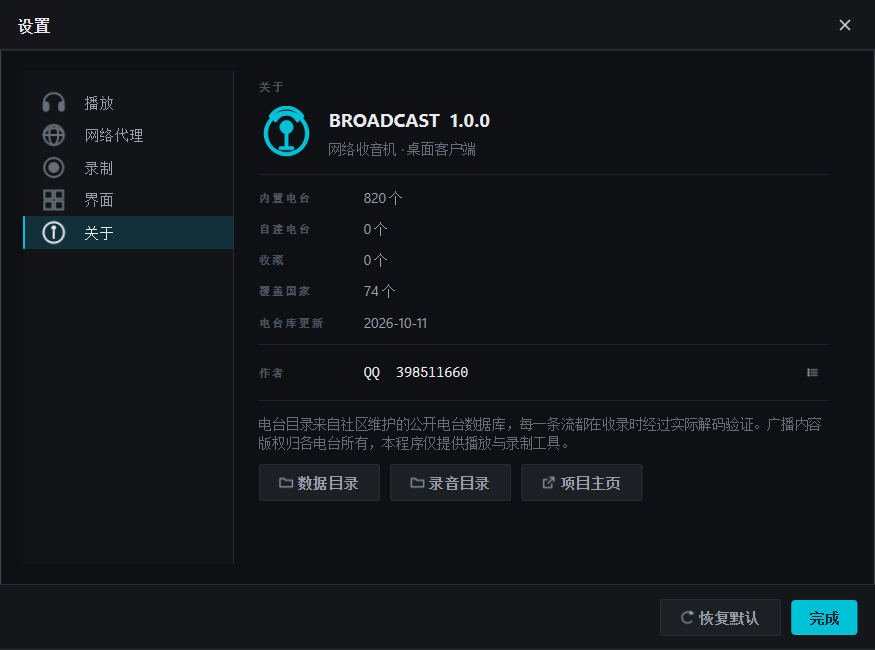
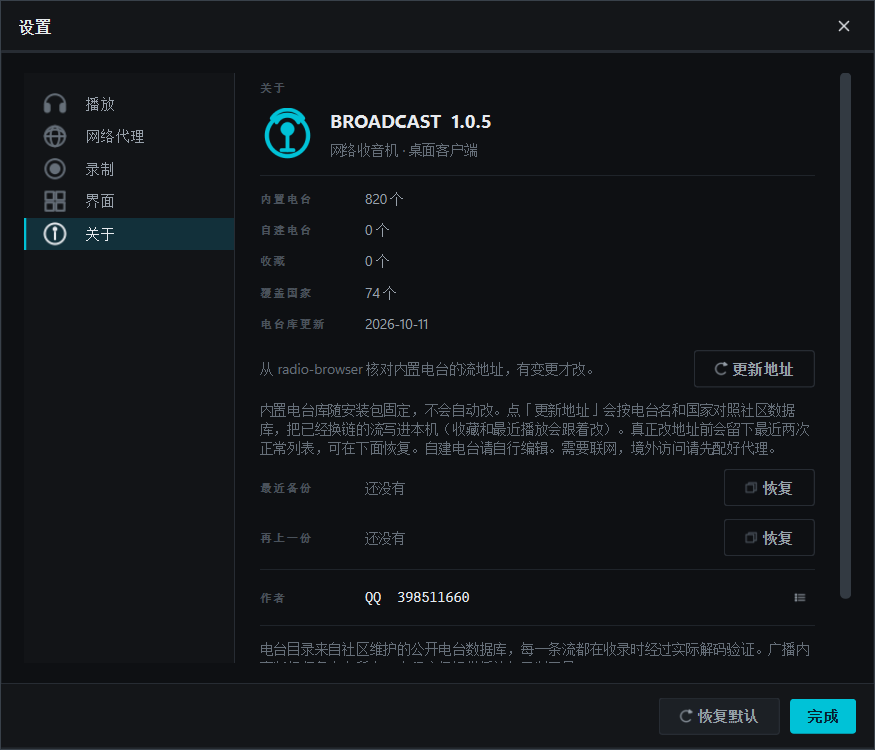
Refresh README screenshots to match the 1.0.5 UI.

diff --git a/tools/make_screenshots.py b/tools/make_screenshots.py
@@ -1,93 +1,188 @@
-"""Capture the final presentation screenshots."""
+"""Capture the README screenshots from the live UI."""
+from __future__ import annotations
+
 import os
 import sys
 
-sys.path.insert(0, r"E:\KU\AI\deepseek-harness\network-radio")
+ROOT = os.path.dirname(os.path.dirname(os.path.abspath(__file__)))
+sys.path.insert(0, ROOT)
+
 from PySide6.QtCore import QTimer  # noqa: E402
 from PySide6.QtWidgets import QApplication  # noqa: E402
 
-from radio import theme  # noqa: E402
+from radio import appicon, theme  # noqa: E402
+from radio.dialogs import PreferencesDialog, StationDialog  # noqa: E402
 from radio.main_window import MainWindow  # noqa: E402
 
-OUT = r"E:\KU\AI\deepseek-harness\network-radio\docs"
+OUT = os.path.join(ROOT, "docs")
 os.makedirs(OUT, exist_ok=True)
+
+
+def save(widget, name: str) -> None:
+    path = os.path.join(OUT, name)
+    ok = widget.grab().save(path)
+    print(f"{'saved' if ok else 'FAILED'} {name}  {widget.width()}x{widget.height()}")
+
+
+def pick(rows, *needles: str):
+    lowered = [n.lower() for n in needles]
+    for row in rows:
+        blob = " ".join(
+            str(row.get(k, "")).lower()
+            for k in ("name", "url", "genre", "country", "tags")
+        )
+        if all(n in blob for n in lowered):
+            if ".m3u8" not in (row.get("url") or "").lower():
+                return row
+    return None
+
 
 app = QApplication(sys.argv)
 app.setStyle("Fusion")
 app.setStyleSheet(theme.stylesheet())
+appicon.set_taskbar_identity()
+app.setWindowIcon(appicon.app_icon())
+
 win = MainWindow()
 win.resize(1560, 940)
 win.show()
+app.processEvents()
 
 
-def step1():
-    # a high-bitrate station with live ICY metadata
-    for r in win.model.rows:
-        u = r.get("url", "").lower()
-        if "somafm" in u and "reggae" in u:
-            win.table.select_url(r["url"])
-            win.engine.tune(r)
-            break
-    QTimer.singleShot(12000, step2)
+def tune(row) -> None:
+    if row is None:
+        return
+    win.table.select_url(row["url"])
+    win.engine.tune(row)
+    print(f"tuning {row.get('name')!r}")
 
 
-def step2():
-    win.grab().save(os.path.join(OUT, "screenshot-playing.png"))
-    print("saved screenshot-playing.png")
-    win.engine.stop()
-    QTimer.singleShot(1200, step3)
+def wait_play(then, tries: int = 0) -> None:
+    spec = getattr(win.engine, "_prev_bands", None)
+    energy = float(spec.max()) if spec is not None and getattr(spec, "size", 0) else 0.0
+    state = getattr(win.engine, "state", "")
+    if state == "playing" and energy > 0.04:
+        then()
+        return
+    if tries >= 50:
+        print(f"giving up wait_play state={state!r} energy={energy:.3f}")
+        then()
+        return
+    QTimer.singleShot(400, lambda: wait_play(then, tries + 1))
 
 
-def step3():
+def step_playing() -> None:
+    rows = win.model.rows
+    target = pick(rows, "somafm", "reggae") or pick(rows, "somafm")
+    if target is None:
+        for row in rows:
+            if int(row.get("bitrate") or 0) >= 128 and (row.get("codec") or "").upper() == "MP3":
+                target = row
+                break
+    tune(target or (rows[0] if rows else None))
+    wait_play(shot_playing)
+
+
+def shot_playing() -> None:
+    save(win, "screenshot-playing.png")
     win._on_nav("zh")
-    QTimer.singleShot(900, step4)
+    rows = win.model.rows
+    zh = next((r for r in rows if r.get("zh") and ".m3u8" not in (r.get("url") or "").lower()), None)
+    if zh:
+        tune(zh)
+        wait_play(shot_chinese)
+    else:
+        QTimer.singleShot(700, shot_chinese)
 
 
-def step4():
-    win.grab().save(os.path.join(OUT, "screenshot-chinese.png"))
-    print("saved screenshot-chinese.png")
+def shot_chinese() -> None:
+    save(win, "screenshot-chinese.png")
     win._on_nav("jazz")
-    QTimer.singleShot(900, step5)
+    rows = win.model.rows
+    jazz = None
+    for row in rows:
+        url = (row.get("url") or "").lower()
+        name = (row.get("name") or "").lower()
+        if ".m3u8" in url or "smoothjazz.com.pl" in url or "smoothjazz.com.pl" in name:
+            continue
+        if (row.get("codec") or "").upper() == "MP3":
+            jazz = row
+            break
+    if jazz is None and rows:
+        jazz = rows[0]
+    if jazz:
+        tune(jazz)
+        wait_play(shot_jazz)
+    else:
+        QTimer.singleShot(700, shot_jazz)
 
 
-def step5():
-    win.grab().save(os.path.join(OUT, "screenshot-jazz.png"))
-    print("saved screenshot-jazz.png")
-    QTimer.singleShot(500, step6)
+def shot_jazz() -> None:
+    save(win, "screenshot-jazz.png")
+    shot_dialogs()
 
 
-def step6():
-    from radio.dialogs import PreferencesDialog, StationDialog
-
+def shot_dialogs() -> None:
     prefs = PreferencesDialog(win, win.library, win.engine)
-    prefs.nav.setCurrentRow(1)          # network / proxy
     prefs.show()
     app.processEvents()
-    prefs.grab().save(os.path.join(OUT, "screenshot-proxy.png"))
-    print("saved screenshot-proxy.png")
 
-    prefs.nav.setCurrentRow(2)          # recording
+    prefs.nav.setCurrentRow(0)
     app.processEvents()
-    prefs.grab().save(os.path.join(OUT, "screenshot-preferences.png"))
-    print("saved screenshot-preferences.png")
+    save(prefs, "screenshot-preferences.png")
 
-    prefs.nav.setCurrentRow(4)          # about / author
+    prefs.nav.setCurrentRow(1)
     app.processEvents()
-    prefs.grab().save(os.path.join(OUT, "screenshot-about.png"))
-    print("saved screenshot-about.png")
+    save(prefs, "screenshot-proxy.png")
+
+    prefs.nav.setCurrentRow(4)
+    app.processEvents()
+    save(prefs, "screenshot-about.png")
     prefs.hide()
+    prefs.close()
 
     dlg = StationDialog(win, None, win.engine)
     dlg.name_edit.setText("示例电台")
     dlg.url_edit.setText("https://ice1.somafm.com/groovesalad-128-mp3")
     dlg.show()
     app.processEvents()
-    dlg.grab().save(os.path.join(OUT, "screenshot-add-station.png"))
-    print("saved screenshot-add-station.png")
+    save(dlg, "screenshot-add-station.png")
     dlg.hide()
+    dlg.close()
+    shot_tray()
 
+
+def shot_tray() -> None:
+    if win.tray and win.tray.available:
+        name = win._mini_title.fullText() if hasattr(win, "_mini_title") else "BROADCAST"
+        track = win._mini_track.fullText() if hasattr(win, "_mini_track") else ""
+        win.tray.set_playing(name, track, playing=True, state="playing")
+        win.tray.set_state(True, False, False)
+        menu = win.tray.menu
+        menu.popup(win.geometry().center())
+        app.processEvents()
+        QTimer.singleShot(400, lambda: grab_tray(menu))
+    else:
+        finish()
+
+
+def grab_tray(menu) -> None:
+    save(menu, "screenshot-tray-menu.png")
+    menu.hide()
+    finish()
+
+
+def finish() -> None:
+    appicon.save_preview(os.path.join(OUT, "icon"))
+    print("saved icon previews")
+    win._really_quit = True
+    try:
+        win.engine.stop()
+    except Exception:
+        pass
+    win.close()
     app.quit()
 
 
-QTimer.singleShot(700, step1)
-app.exec()
+QTimer.singleShot(700, step_playing)
+raise SystemExit(app.exec())

diff --git a/radio/dialogs.py b/radio/dialogs.py
@@ -8,7 +8,7 @@ from PySide6.QtGui import QDesktopServices
 from PySide6.QtWidgets import (
     QButtonGroup, QCheckBox, QComboBox, QDialog, QFileDialog, QFrame, QGridLayout,
     QHBoxLayout, QLabel, QLineEdit, QListWidget, QListWidgetItem, QMessageBox,
-    QPushButton, QRadioButton, QStackedWidget, QVBoxLayout, QWidget,
+    QPushButton, QRadioButton, QScrollArea, QStackedWidget, QVBoxLayout, QWidget,
 )
 
 from . import icons, paths, theme
@@ -289,7 +289,7 @@ class PreferencesDialog(DialogBase):
              ("interface", "界面", "grid"), ("about", "关于", "info")]
 
     def __init__(self, parent, library, engine):
-        super().__init__(parent, "设置", width=700, height=520)
+        super().__init__(parent, "设置", width=700, height=600)
         self.library = library
         self.engine = engine
         self._reset_done = False
@@ -344,11 +344,18 @@ class PreferencesDialog(DialogBase):
 
     # -- helpers -----------------------------------------------------------
     def _page(self) -> tuple[QWidget, QVBoxLayout]:
-        page = QWidget()
-        lay = QVBoxLayout(page)
+        inner = QWidget()
+        lay = QVBoxLayout(inner)
         lay.setContentsMargins(20, 6, 20, 6)
         lay.setSpacing(10)
-        return page, lay
+        scroll = QScrollArea()
+        scroll.setWidgetResizable(True)
+        scroll.setFrameShape(QFrame.Shape.NoFrame)
+        scroll.setHorizontalScrollBarPolicy(Qt.ScrollBarPolicy.ScrollBarAlwaysOff)
+        scroll.setWidget(inner)
+        scroll.setStyleSheet("QScrollArea { background: transparent; border: none; }")
+        inner.setStyleSheet("background: transparent;")
+        return scroll, lay
 
     def _heading(self, text: str) -> QLabel:
         lab = QLabel(text)
